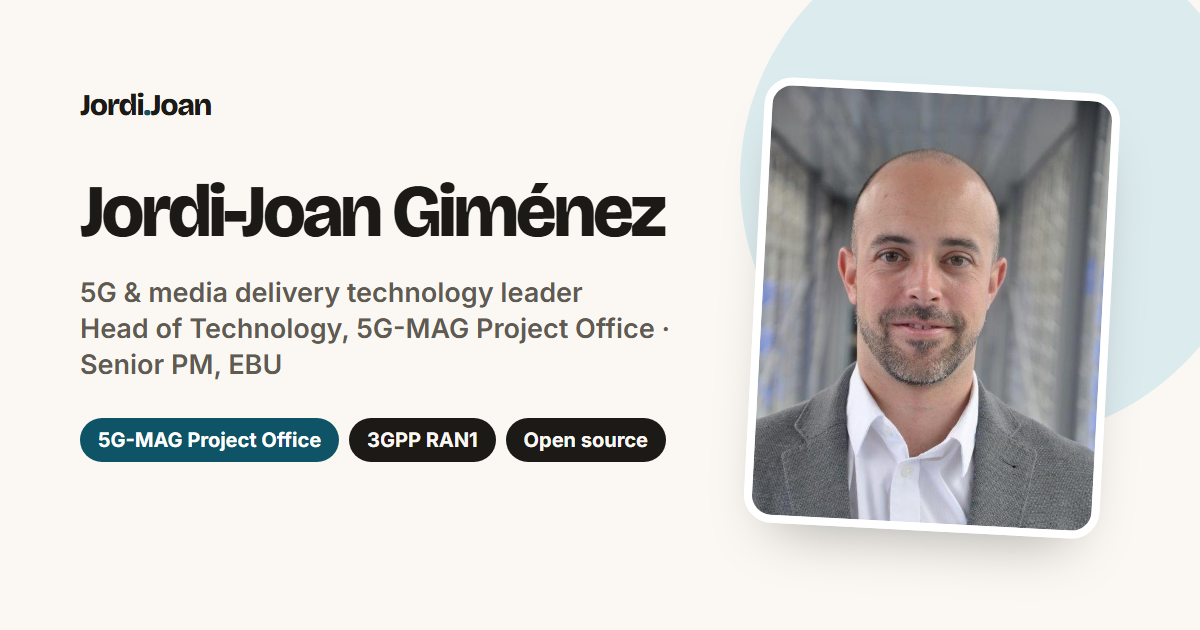
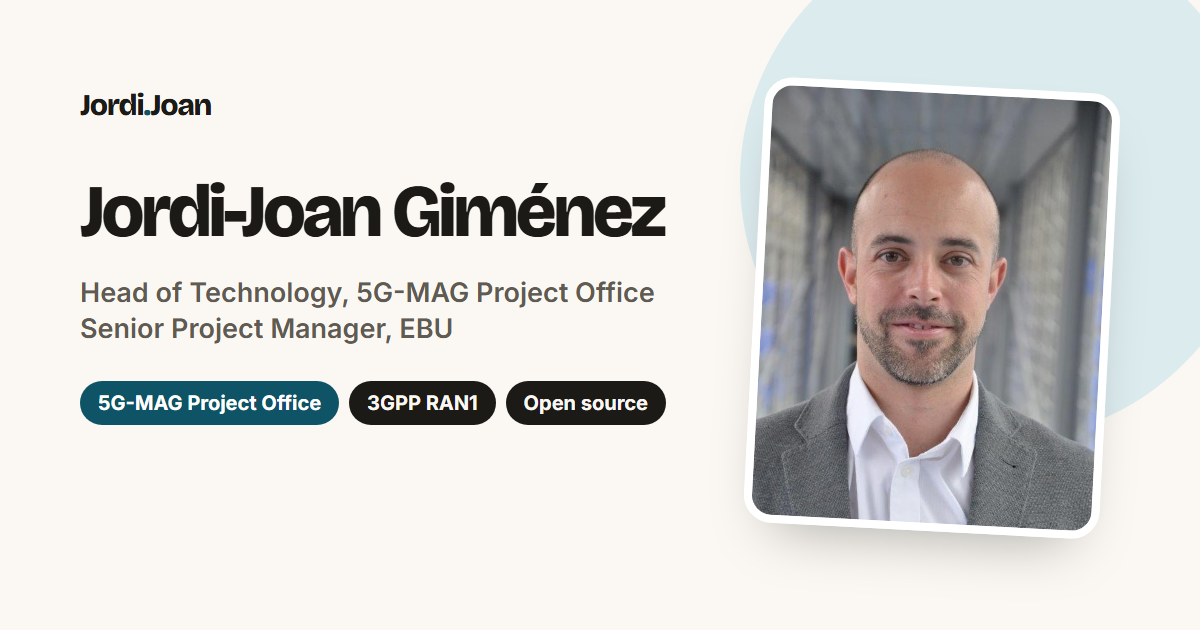
Title: name only, drop tagline from title and preview image

Changed region(s): [[0.0617, 0.4222, 0.555, 0.754]]

diff --git a/index.html b/index.html
@@ -3,7 +3,7 @@
 <head>
   <meta charset="utf-8">
   <meta name="viewport" content="width=device-width, initial-scale=1">
-  <title>Jordi-Joan Giménez — 5G &amp; Media Delivery Technology Leader</title>
+  <title>Jordi-Joan Giménez</title>
   <meta name="description" content="Jordi-Joan Giménez, PhD: Head of Technology in the 5G-MAG Project Office and Senior Project Manager at the EBU. 15+ years in media delivery, 3GPP standards and open-source media technology.">
   <meta name="color-scheme" content="light dark">
   <meta name="theme-color" content="#fbf8f3" media="(prefers-color-scheme: light)">
@@ -12,7 +12,7 @@
   <link rel="icon" href="favicon.svg" type="image/svg+xml">
 
   <meta property="og:type" content="profile">
-  <meta property="og:title" content="Jordi-Joan Giménez — 5G & Media Delivery Technology Leader">
+  <meta property="og:title" content="Jordi-Joan Giménez">
   <meta property="og:description" content="Head of Technology in the 5G-MAG Project Office and Senior Project Manager at the EBU. Media delivery, 3GPP standards and open-source media technology.">
   <meta property="og:url" content="https://jordijoan.es/">
   <meta property="og:image" content="https://jordijoan.es/img/og-card.png">
